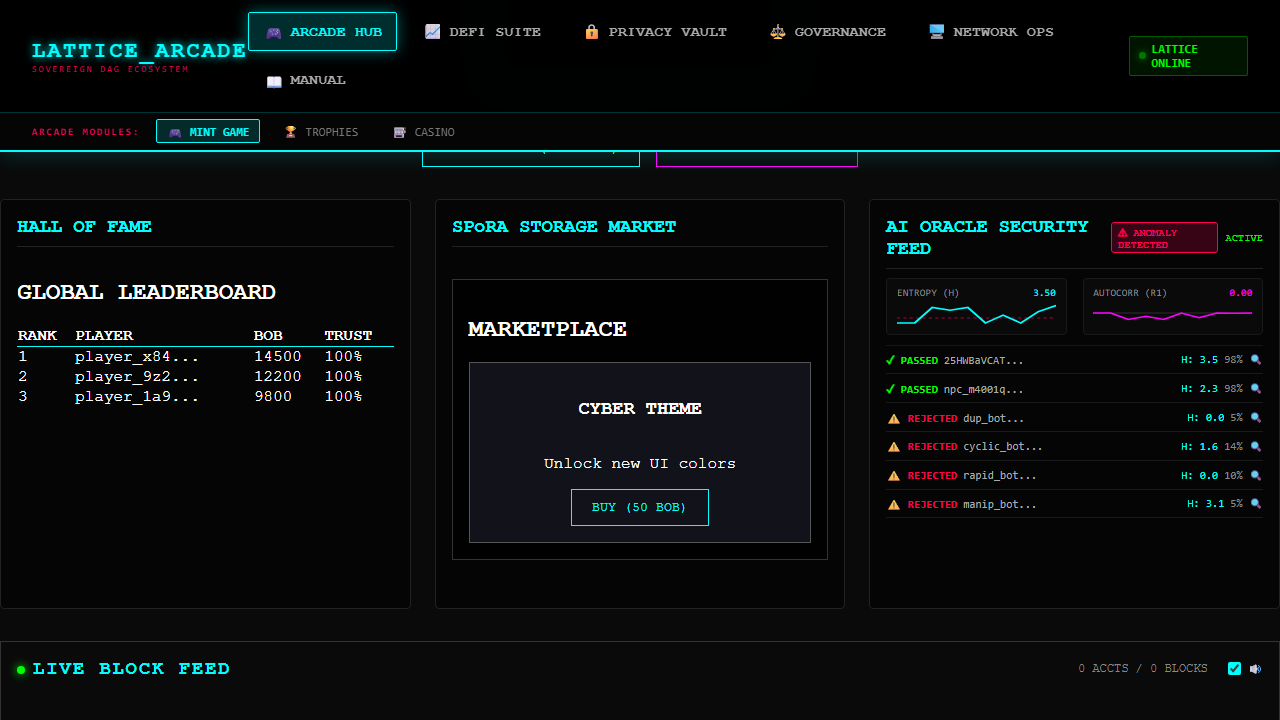
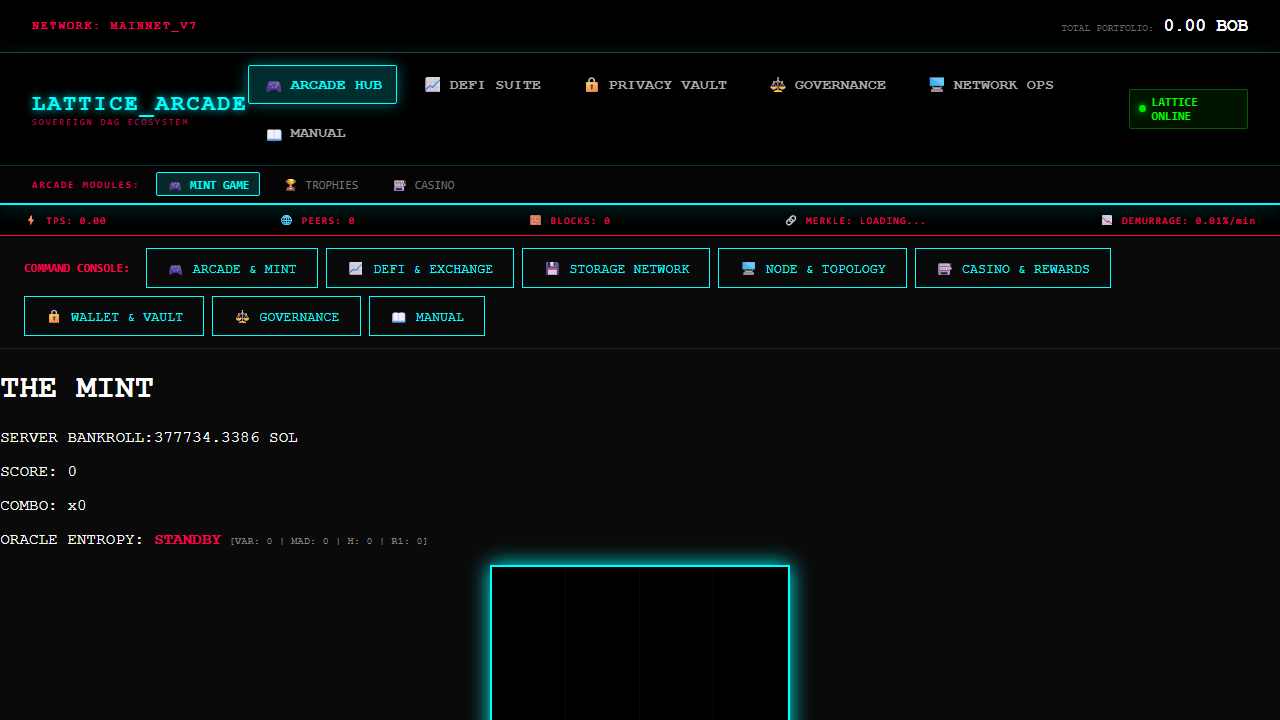
Release v8.117.15: SP1 prover mode indicator on Dashboard mint

diff --git a/frontend/src/pages/Dashboard.jsx b/frontend/src/pages/Dashboard.jsx
@@ -3,7 +3,7 @@ import { RhythmGame } from '../components/RhythmGame';
 import { LiveFeed } from '../components/LiveFeed';
 import { Leaderboard } from '../components/Leaderboard';
 import { Marketplace } from '../components/Marketplace';
-import { submitProof, getBankroll, submitFHEOracle, getOracleAudits, SIGNALING_URL } from '../api';
+import { submitProof, getBankroll, submitFHEOracle, getOracleAudits, SIGNALING_URL, PROVER_URL } from '../api';
 import { checkAndUnlock } from '../AchievementService';
 import { generateFHEKeys, encryptInt, decryptInt } from '../fheUtils';
 import { useNetwork } from '../NetworkContext';
@@ -39,6 +39,25 @@ export function Dashboard() {
     const [oracleStats, setOracleStats] = useState({ variance: 0, mad: 0, entropy: 0, autocorr: 0, status: 'STANDBY' });
     const [oracleAudits, setOracleAudits] = useState([]);
     const [selectedAudit, setSelectedAudit] = useState(null);
+    const [proverOnline, setProverOnline] = useState(false);
+
+    // Poll the SP1 prover sidecar so the mint button can say honestly
+    // whether minting will use a real ZK proof (slow, minutes) or the
+    // fast AI Oracle audit. Without this the wait/fallback was silent.
+    useEffect(() => {
+        let cancelled = false;
+        const checkProver = async () => {
+            try {
+                const res = await fetch(`${PROVER_URL}/health`, { signal: AbortSignal.timeout(1500) });
+                if (!cancelled) setProverOnline(res.ok);
+            } catch {
+                if (!cancelled) setProverOnline(false);
+            }
+        };
+        checkProver();
+        const interval = setInterval(checkProver, 15000);
+        return () => { cancelled = true; clearInterval(interval); };
+    }, []);
 
     // Command Center Active Sub-Module Tab (Eliminates fragmentation).
     // Deep-linkable via ?tab=<id> (e.g. /?tab=privacy) so support/docs links
@@ -317,6 +336,12 @@ export function Dashboard() {
 
                         <div className="play-area-wrapper" style={{display: 'flex', justifyContent: 'center'}}>
                             <RhythmGame onScoreUpdate={handleScoreUpdate} onLogEvent={handleLogEvent} />
+                        </div>
+
+                        <div className="prover-mode-bar" style={{textAlign: 'center', marginTop: '1rem', fontSize: '0.7rem', fontFamily: 'monospace', letterSpacing: '1px'}} title={proverOnline ? 'The SP1 prover sidecar is reachable: minting will generate a real compressed ZK proof (takes minutes of CPU), verified by the verifier daemon.' : 'The SP1 prover sidecar is offline: minting uses the fast AI Oracle statistical audit. Start it with scripts/start-sp1-prover.ps1 for real ZK proofs.'}>
+                            {proverOnline
+                                ? <span style={{color: '#0f0'}}>● SP1 PROVER CONNECTED — REAL ZK PROOF MODE (SLOW, MINUTES)</span>
+                                : <span style={{color: '#888'}}>○ SP1 PROVER OFFLINE — AI ORACLE MODE (FAST)</span>}
                         </div>
 
                         <div className="controls" style={{display: 'flex', gap: '1rem', justifyContent: 'center', marginTop: '1rem'}}>

diff --git a/testing/test_e2e_system_tray_and_nav.py b/testing/test_e2e_system_tray_and_nav.py
@@ -219,6 +219,12 @@ def test_consolidated_navigation_and_command_console():
         assert telemetry.is_visible()
         print("  ✓ Telemetry bar visible.")
 
+        # SP1 prover mode indicator (real ZK vs Oracle fallback must be visible)
+        prover_bar = page.locator(".prover-mode-bar")
+        assert prover_bar.is_visible()
+        assert "SP1 PROVER" in prover_bar.inner_text()
+        print(f"  ✓ Prover mode indicator visible: {prover_bar.inner_text()}")
+
         # 1. Test Mega-Module Navigation links
         mega_links = [
             ("ARCADE HUB", "/"),

diff --git a/CHANGELOG.md b/CHANGELOG.md
@@ -1,5 +1,9 @@
 # Changelog
 
+## [8.117.15] - 2026-11-14
+### Added
+- **Prover mode indicator**: the Dashboard mint area now shows whether the SP1 prover sidecar is connected (`REAL ZK PROOF MODE (SLOW, MINUTES)`) or minting will use the fast AI Oracle audit, polled every 15s with an explanatory tooltip. Previously the multi-minute wait (or silent fallback) was invisible. Covered by a new Playwright assertion.
+
 ## [8.117.14] - 2026-11-14
 ### Added
 - **Manual chapter**: the in-dashboard Protocol Manual gained a "ZK PROVING (SP1)" chapter explaining the prover sidecar, verifier daemon, how minting uses them, and where to check their live status — mirroring the System Status SP1 cards from v8.117.13. ROADMAP/TODO updated with the completed Phase VII and the two remaining gated items (tray login auto-start needs user go-ahead; Groth16 needs registry access).

diff --git a/VERSION.md b/VERSION.md
@@ -1,1 +1,1 @@
-8.117.14
+8.117.15
